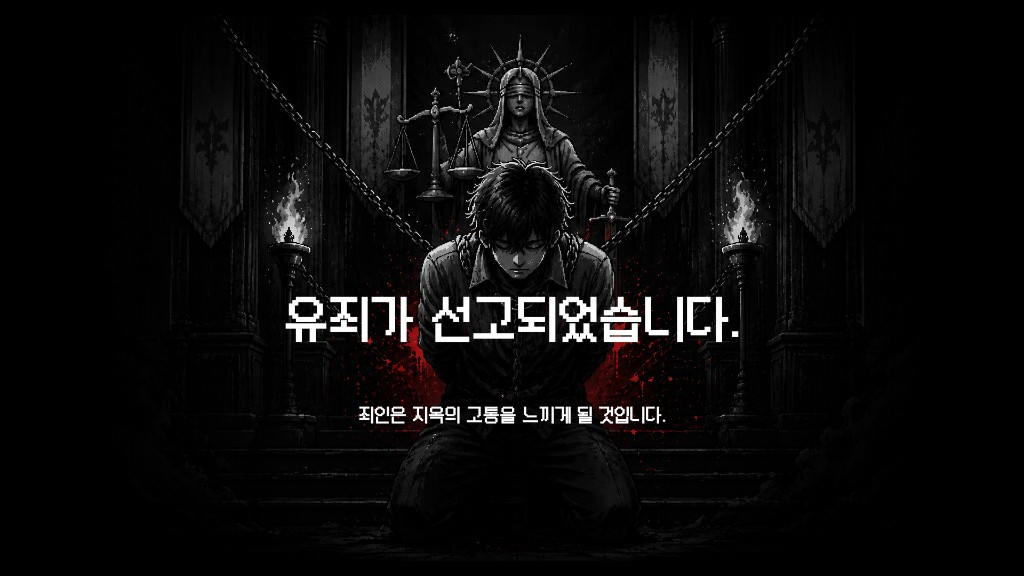
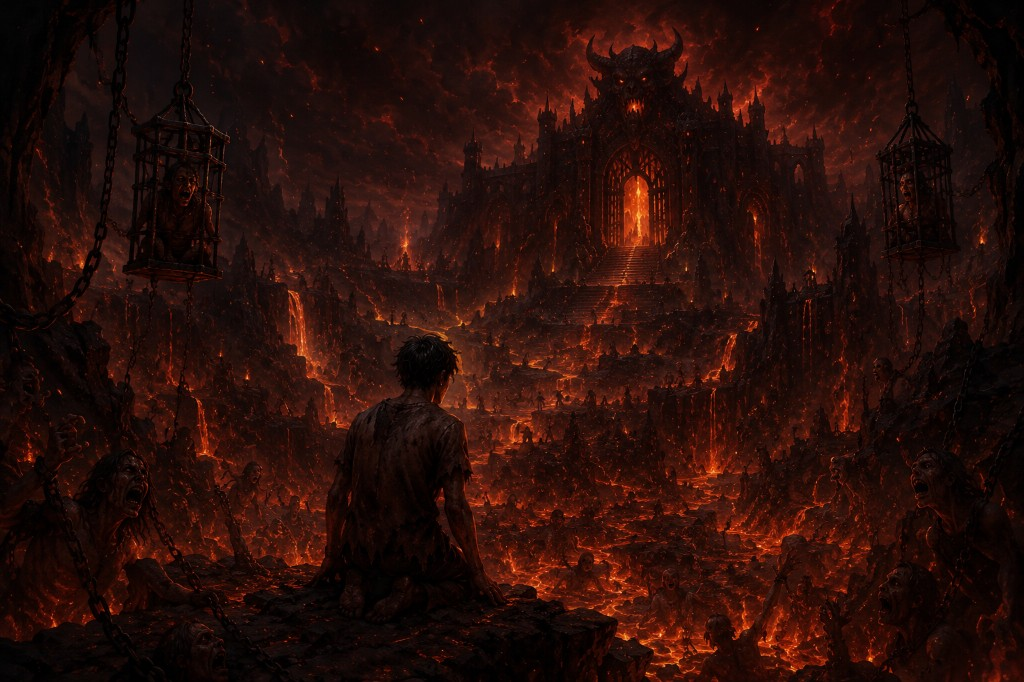
Replace heaven and hell verdict art and lay out result copy in HTML so the scene stays visible.

diff --git a/index.html b/index.html
@@ -985,6 +985,13 @@
         color: var(--muted);
         font-size: 0.82rem;
         letter-spacing: 0.08em;
+        flex: 0 0 auto;
+      }
+      #recordTitle {
+        min-width: 0;
+        overflow: hidden;
+        text-overflow: ellipsis;
+        white-space: nowrap;
       }
       .record-box.selected {
         outline: none;
@@ -1222,17 +1229,84 @@
       }
 
       #screen-end {
-        justify-content: flex-end;
-        align-items: center;
+        justify-content: stretch;
+        align-items: stretch;
         background: #050505 center / cover no-repeat;
-        padding-bottom: clamp(3rem, 10vh, 5.5rem);
+        padding: 0;
       }
-      .end-overlay {
-        min-width: min(420px, 90vw);
-        border: 1px solid var(--line);
-        background: rgba(0,0,0,0.62);
-        padding: 1.4rem;
+      .end-layout {
+        flex: 1;
+        width: 100%;
+        display: flex;
+        flex-direction: column;
+        justify-content: space-between;
+        min-height: 0;
+        padding: clamp(1.4rem, 4.5vh, 3rem) clamp(1.6rem, 5vw, 4.2rem);
+      }
+      #screen-end.is-heaven .end-layout {
+        color: #fff8e8;
+        background: linear-gradient(180deg, rgba(18, 14, 8, 0.46) 0%, transparent 28%, transparent 58%, rgba(10, 8, 4, 0.74) 100%);
+      }
+      #screen-end.is-hell .end-layout {
+        color: #ffe8d4;
+        background: linear-gradient(180deg, rgba(0, 0, 0, 0.56) 0%, transparent 30%, transparent 56%, rgba(0, 0, 0, 0.84) 100%);
+      }
+      .end-header {
+        max-width: 28rem;
+      }
+      .end-kicker {
+        margin: 0 0 0.35rem;
+        letter-spacing: 0.28em;
+        font-size: 0.82rem;
+        opacity: 0.82;
+        text-shadow: 0 1px 10px rgba(0, 0, 0, 0.8);
+      }
+      #endTitle {
+        margin: 0;
+        font-size: clamp(2.4rem, 6vw, 4.2rem);
+        letter-spacing: 0.18em;
+        font-weight: 700;
+        line-height: 1.1;
+        text-shadow: 0 2px 18px rgba(0, 0, 0, 0.85);
+      }
+      .end-copy {
+        display: flex;
+        align-items: flex-end;
+        justify-content: space-between;
+        gap: 1.5rem 2.5rem;
+      }
+      .end-main {
+        max-width: 34rem;
+        min-width: 0;
+      }
+      .end-lead {
+        margin: 0 0 0.45rem;
+        font-size: 1.12rem;
+        line-height: 1.55;
+        text-shadow: 0 1px 10px rgba(0, 0, 0, 0.8);
+      }
+      .end-time {
+        margin: 0;
+        opacity: 0.88;
+        letter-spacing: 0.04em;
+        text-shadow: 0 1px 10px rgba(0, 0, 0, 0.8);
+      }
+      .end-footer {
+        width: min(22rem, 100%);
+        flex-shrink: 0;
+      }
+      #screen-end .end-menu-item {
         text-align: center;
+        background: rgba(0, 0, 0, 0.62);
+      }
+      @media (max-width: 720px) {
+        .end-copy {
+          flex-direction: column;
+          align-items: stretch;
+        }
+        .end-footer {
+          width: 100%;
+        }
       }
       #toast {
         position: fixed;
@@ -1442,10 +1516,10 @@
                 </div>
               </div>
               <div class="record-panel-wrap">
-                <section class="panel record-box" id="recordBox" aria-label="NOTES">
+                <section class="panel record-box" id="recordBox" aria-label="사건 기록">
                   <div class="record-page record-page-top" id="recordTopPage" aria-hidden="true"></div>
                   <div class="panel-title panel-title-row">
-                    <span>NOTES</span>
+                    <span id="recordTitle">사건 기록</span>
                     <span class="record-page-count" id="recordPageCount">0/0</span>
                   </div>
                   <div class="record-page" id="recordPage"></div>
@@ -1495,12 +1569,21 @@
     </section>
 
     <section id="screen-end" class="screen" aria-label="판결 결과">
-      <div class="end-overlay">
-        <div id="endTitle" style="font-size:1.55rem;letter-spacing:0.1em;margin-bottom:0.5rem"></div>
-        <div id="endSub" style="color:var(--muted);line-height:1.45"></div>
-        <nav class="end-menu" id="endMenu" aria-label="판결 후 메뉴">
-        </nav>
-      </div>
+      <article class="end-layout">
+        <header class="end-header">
+          <p class="end-kicker">판결</p>
+          <h2 id="endTitle"></h2>
+        </header>
+        <div class="end-copy">
+          <main class="end-main">
+            <p id="endLead" class="end-lead"></p>
+            <p id="endSub" class="end-time"></p>
+          </main>
+          <footer class="end-footer">
+            <nav class="end-menu" id="endMenu" aria-label="판결 후 메뉴"></nav>
+          </footer>
+        </div>
+      </article>
     </section>
 
     <div class="modal-layer" id="verdictConfirmModal" aria-label="판결 확인 팝업">
@@ -1546,6 +1629,8 @@
           bubbleAwaiting: false,
           bubbleLocked: false,
           bubbleOpensRecord: false,
+          bubbleIgnoreEnter: false,
+          bubbleShownAt: 0,
         };
 
         const titleItems = [
@@ -1596,15 +1681,16 @@
           },
           play(track) {
             if (this.muted) return;
-            const path = this.paths()[track || "court"];
+            const next = track || "court";
+            const path = this.paths()[next];
             if (!path) return;
             if (!this.audio) {
               this.audio = new Audio();
-              this.audio.loop = true;
             }
-            if (this.track !== track) {
+            this.audio.loop = next === "court";
+            if (this.track !== next) {
               this.audio.src = path;
-              this.track = track;
+              this.track = next;
             }
             this.audio.volume = this.volume();
             this.audio.play().catch(function () {});
@@ -1818,6 +1904,7 @@
           ui.recordPage = 0;
           showScreen("ingame");
           refreshTrial(true);
+          BGM.play("court");
         }
 
         function formatCostMinutes(n) {
@@ -2213,8 +2300,12 @@
           const pages = [];
           s.events.forEach(function (ev, i) {
             const head = (i + 1) + ". " + (ev.year || "????") + " · " + ev.title;
+            const year = ev.year || "????";
+            const eventTitle = ev.title || "이름 없는 사건";
             pages.push({
               eventId: ev.id,
+              year: year,
+              eventTitle: eventTitle,
               title: head + " · 기본 사건",
               text:
                 head +
@@ -2224,6 +2315,8 @@
             });
             pages.push({
               eventId: ev.id,
+              year: year,
+              eventTitle: eventTitle,
               title: head + " · 추가 사실",
               text:
                 head +
@@ -2232,6 +2325,8 @@
             });
             pages.push({
               eventId: ev.id,
+              year: year,
+              eventTitle: eventTitle,
               title: head + " · 감정과 의도",
               text:
                 head +
@@ -2247,6 +2342,12 @@
           ui.recordPage = Math.max(0, Math.min(ui.recordPage, pages.length - 1));
           const page = pages[ui.recordPage];
           document.getElementById("recordBox").classList.toggle("selected", ui.focusArea === "record");
+          const recordTitle = document.getElementById("recordTitle");
+          if (recordTitle) {
+            recordTitle.textContent = page.eventTitle
+              ? (page.year || "????") + " · " + page.eventTitle
+              : (page.title || "기록 없음");
+          }
           document.getElementById("recordPageCount").textContent = (ui.recordPage + 1) + "/" + pages.length;
           document.getElementById("recordPageInfo").textContent = "PAGE " + (ui.recordPage + 1);
           document.getElementById("recordPage").textContent = page.text;
@@ -2392,6 +2493,8 @@
           while (ui.unlockTimers.length) clearTimeout(ui.unlockTimers.pop());
         }
 
+        const BUBBLE_DISMISS_GRACE_MS = 700;
+
         function dismissBubbles() {
           clearUnlockTimers();
           const player = document.getElementById("playerBubble");
@@ -2400,6 +2503,8 @@
           bubble.classList.remove("show", "awaiting");
           ui.bubbleAwaiting = false;
           ui.bubbleLocked = false;
+          ui.bubbleIgnoreEnter = false;
+          ui.bubbleShownAt = 0;
           const shouldOpenRecord = ui.bubbleOpensRecord;
           ui.bubbleOpensRecord = false;
           if (shouldOpenRecord) openRecordAtCurrentPage();
@@ -2410,6 +2515,8 @@
           ui.bubbleAwaiting = false;
           ui.bubbleLocked = true;
           ui.bubbleOpensRecord = true;
+          ui.bubbleIgnoreEnter = true;
+          ui.bubbleShownAt = 0;
           const player = document.getElementById("playerBubble");
           const bubble = document.getElementById("soulBubble");
           const frame = document.getElementById("courtFrame");
@@ -2428,6 +2535,7 @@
             void bubble.offsetWidth;
             bubble.classList.add("show", "awaiting");
             ui.bubbleAwaiting = true;
+            ui.bubbleShownAt = Date.now();
           }, 1050));
           frame.classList.add("pulse");
           record.classList.add("updated");
@@ -2628,24 +2736,7 @@
           if (!opened.ok) return;
           const r = Game.submitVerdict(ui.verdictChoice, "");
           if (!r.ok) return;
-          const L = Game.labels();
-          const art = Game.contentArt();
-          const end = document.getElementById("screen-end");
-          if (ui.verdictChoice === "heaven" && art.verdictHeaven) {
-            end.style.backgroundImage = 'url("' + art.verdictHeaven + '")';
-            BGM.play("heaven");
-          } else if (ui.verdictChoice === "hell" && art.verdictHell) {
-            end.style.backgroundImage = 'url("' + art.verdictHell + '")';
-            BGM.play("hell");
-          } else {
-            end.style.backgroundImage = "";
-          }
-          document.getElementById("endTitle").textContent = ui.verdictChoice === "heaven" ? L.heaven : L.hell;
-          document.getElementById("endSub").textContent =
-            r.summary.deceasedName + "에 대한 판결이 확정되었다.\n남은 법정시간 " + r.summary.courtTimeLeftLabel;
-          ui.endIndex = 0;
-          renderEndMenu();
-          showScreen("end");
+          showVerdictEnd(r.summary);
         }
 
         function resetTrialUi() {
@@ -2666,6 +2757,7 @@
           resetTrialUi();
           showScreen("ingame");
           refreshTrial(true);
+          BGM.play("court");
         }
 
         function showLobbyFromEnd() {
@@ -2726,28 +2818,35 @@
           });
         }
 
-        function submitVerdict() {
-          const reason = document.getElementById("verdictReason").value || "";
-          const r = Game.submitVerdict(ui.verdictChoice, reason);
-          if (!r.ok) return;
+        function showVerdictEnd(summary) {
           const L = Game.labels();
           const art = Game.contentArt();
           const end = document.getElementById("screen-end");
-          if (ui.verdictChoice === "heaven" && art.verdictHeaven) {
+          const isHeaven = ui.verdictChoice === "heaven";
+          end.classList.toggle("is-heaven", isHeaven);
+          end.classList.toggle("is-hell", !isHeaven);
+          if (isHeaven && art.verdictHeaven) {
             end.style.backgroundImage = 'url("' + art.verdictHeaven + '")';
             BGM.play("heaven");
-          } else if (ui.verdictChoice === "hell" && art.verdictHell) {
+          } else if (!isHeaven && art.verdictHell) {
             end.style.backgroundImage = 'url("' + art.verdictHell + '")';
             BGM.play("hell");
           } else {
             end.style.backgroundImage = "";
           }
-          document.getElementById("endTitle").textContent = ui.verdictChoice === "heaven" ? L.heaven : L.hell;
-          document.getElementById("endSub").textContent =
-            r.summary.deceasedName + "에 대한 판결이 확정되었다.\n남은 법정시간 " + r.summary.courtTimeLeftLabel;
+          document.getElementById("endTitle").textContent = isHeaven ? L.heaven : L.hell;
+          document.getElementById("endLead").textContent = summary.deceasedName + "에 대한 판결이 확정되었다.";
+          document.getElementById("endSub").textContent = "남은 법정시간 " + summary.courtTimeLeftLabel;
           ui.endIndex = 0;
           renderEndMenu();
           showScreen("end");
+        }
+
+        function submitVerdict() {
+          const reason = document.getElementById("verdictReason").value || "";
+          const r = Game.submitVerdict(ui.verdictChoice, reason);
+          if (!r.ok) return;
+          showVerdictEnd(r.summary);
         }
 
         function renderEndMenu() {
@@ -2996,10 +3095,13 @@
           if (ui.screen !== "ingame" || !Game.state || Game.state.phase !== "trial") return;
           if (ui.bubbleLocked) {
             e.preventDefault();
-            if (e.key === "Enter" && ui.bubbleAwaiting) {
-              dismissBubbles();
-              playSfx("select");
-            }
+            if (e.repeat) return;
+            if (e.key !== "Enter") return;
+            if (ui.bubbleIgnoreEnter) return;
+            if (!ui.bubbleAwaiting) return;
+            if (!ui.bubbleShownAt || Date.now() - ui.bubbleShownAt < BUBBLE_DISMISS_GRACE_MS) return;
+            dismissBubbles();
+            playSfx("select");
             return;
           }
           if (e.key === "Tab") {
@@ -3065,6 +3167,10 @@
               refreshTrial();
             }
           }
+        });
+
+        document.addEventListener("keyup", function (e) {
+          if (e.key === "Enter") ui.bubbleIgnoreEnter = false;
         });
 
         BGM.loadMute();
